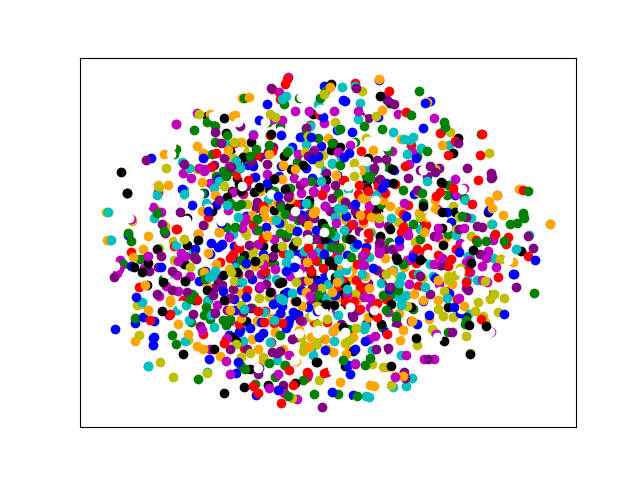
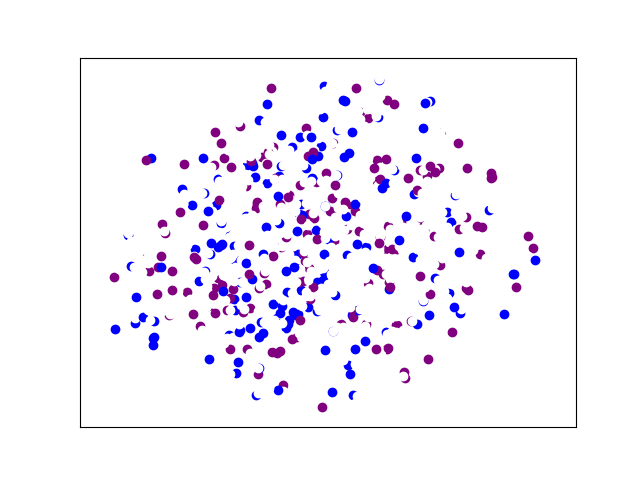
u

Changed region(s): [[0.1562, 0.1562, 0.875, 0.8438]]

diff --git a/vision/tsne.py b/vision/tsne.py
@@ -101,13 +101,14 @@ def plot_embedding(X, y, title=None):
     X = (X - x_min) / (x_max - x_min)
 
     colors = 'r', 'g', 'b', 'c', 'm', 'y', 'k', 'w', 'orange', 'purple'
-    colors = 'w', 'w', 'b', 'w', 'w', 'w', 'w', 'w', 'w', 'purple'
+    # colors = 'w', 'w', 'b', 'w', 'w', 'w', 'w', 'w', 'w', 'purple'
     plt.figure()
     ax = plt.subplot(111)
     for i in range(X.shape[0]):
-        plt.scatter(X[i, 0], X[i, 1],
-                 c=colors[int(y[i])],
-                 label=int(y[i]))
+        if int(y[i]) == 2 or int(y[i]) == 9:
+            plt.scatter(X[i, 0], X[i, 1],
+                    c=colors[int(y[i])],
+                    label=int(y[i]))
     plt.xticks([]), plt.yticks([])
     if title is not None:
         plt.title(title)
